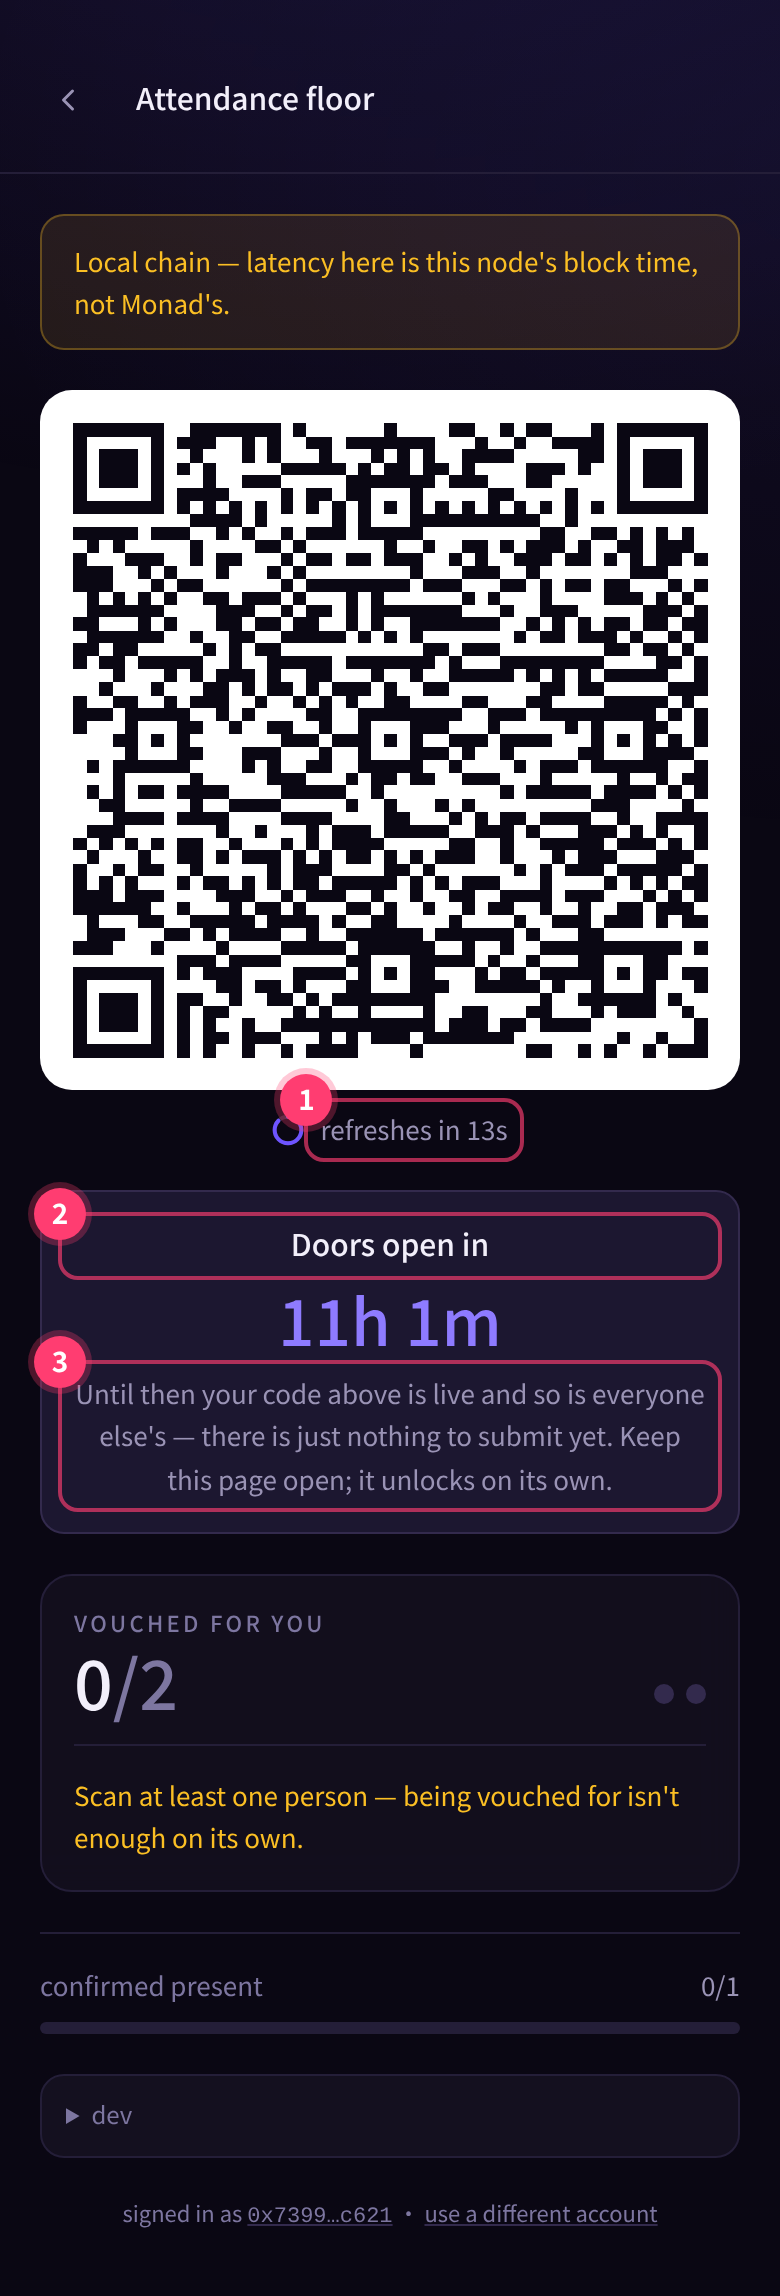
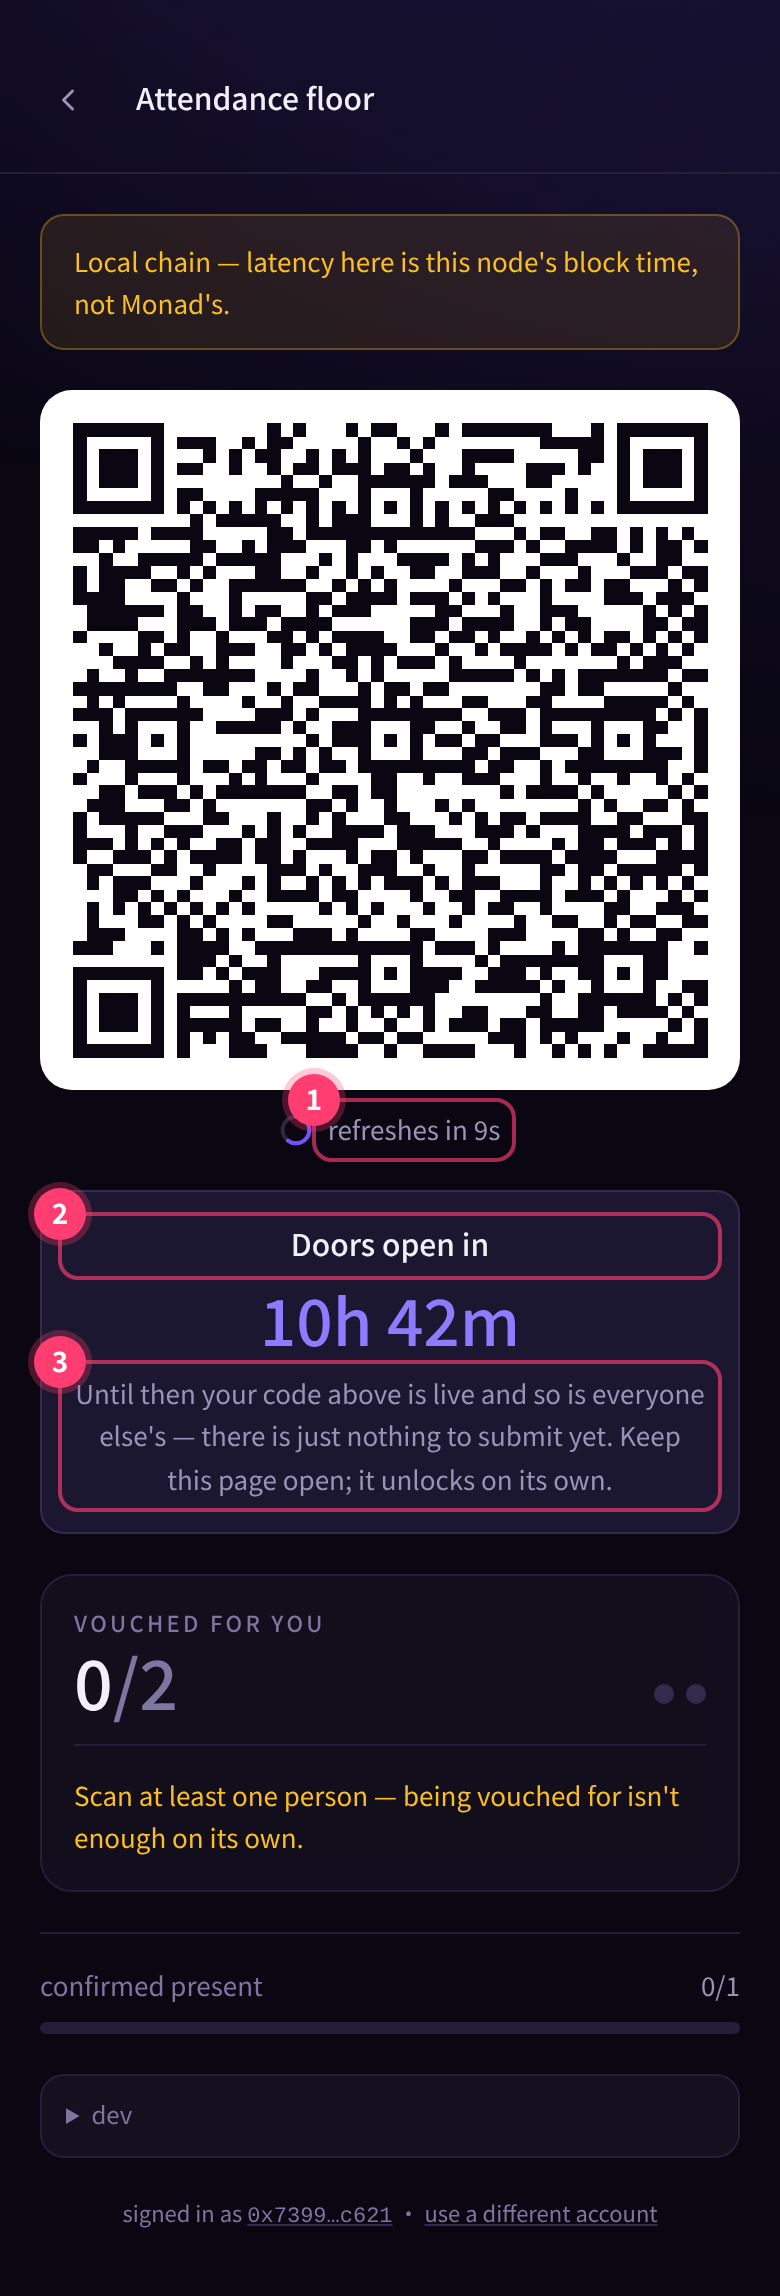
Take the faucet out of the product
Demoting it was not enough. It was the headline, then it was two small
buttons at the bottom, and the screen still read as a page for claiming
test tokens — which is a thing we do and nobody else ever will. Somebody
who signed in with an email to join a meetup does not want test MON; they
want to put money in.

So the screen is now what it says it is: receive at this address, with the
card purchase reserved and inert beside it. The faucet moves behind
?dev=1, with the rest of the scaffolding that exists for us.

That has a cost, and it is paid elsewhere rather than waved away: this
build runs on a testnet, so somebody opening the link to try it has no
other way to get MON. The README now says where to get it, and that two
accounts are needed to see the mechanism work at all — instructions to
testers, in the place testers read.

Changed region(s): [[0.0923, 0.1855, 0.9231, 0.5257], [0.3385, 0.5566, 0.6769, 0.5875], [0.8923, 0.3711, 0.9231, 0.402]]

diff --git a/web/components/Funding.tsx b/web/components/Funding.tsx
@@ -3,6 +3,7 @@
 import { useEffect, useState } from "react";
 import QRCode from "qrcode";
 import { CopyableCode, Notice } from "@/components/ui";
+import { useIdentity } from "@/components/IdentityProvider";
 import type { Address } from "viem";
 import { chain, isLocalChain } from "@/lib/chain";
 import { mon } from "@/lib/format";
@@ -15,10 +16,13 @@ import { monadTestnet } from "viem/chains";
 /// button that fails — which reads as a broken product rather than an empty wallet.
 ///
 /// The screen is arranged around the one method that works on every network today: send MON to
-/// this address. It used to lead with a faucet link, which is a thing only we do — nobody attending
-/// a reading group is going to claim test tokens, and putting that first described our test setup
-/// rather than their situation. The faucet is still here on testnet, at the bottom, labelled as
-/// what it is.
+/// this address.
+///
+/// It used to lead with a faucet link, which is a thing only we do — nobody attending a reading
+/// group is going to claim test tokens, so that described our test setup rather than their
+/// situation. Demoting it to a small row at the bottom was not enough either: it still read as a
+/// faucet page. It is now behind `?dev=1` with the rest of the scaffolding, and the instruction for
+/// people trying this on a testnet lives in the README, where instructions to testers belong.
 ///
 /// Buying with a card is the entry that is deliberately inert. MoonPay has built native MON on
 /// chain 143 and has it suspended; Stripe's destination list does not include Monad at all. A
@@ -77,6 +81,8 @@ export default function Funding({
   /// address nobody can fund, and on a phone a QR is the only way to get it into another wallet.
   address: Address;
 }) {
+  const { devMode } = useIdentity();
+
   if (have >= need) return null;
 
   const faucets = FAUCETS[chain.id] ?? [];
@@ -127,11 +133,17 @@ export default function Funding({
         <p className="text-[11px] text-warn/70">
           Local chain — fund this address with <code>cast send</code>.
         </p>
-      ) : faucets.length > 0 ? (
-        <div className="space-y-1.5">
-          <p className="text-[11px] text-faint">
-            Testing on {chain.name}? These hand out test MON, which is worth nothing anywhere.
-          </p>
+      ) : devMode && faucets.length > 0 ? (
+        // Behind ?dev=1, like every other affordance that exists for us rather than for the person
+        // using this. Claiming test tokens is not something somebody attending a reading group will
+        // ever do, and leaving it on the screen — even small, even at the bottom — kept this reading
+        // as a faucet page after the rest of it had been rewritten around receiving money.
+        //
+        // The cost is real: this build runs on a testnet, so somebody opening the link to try the
+        // product has no other way to obtain MON. That is answered in the README and the submission
+        // notes, which is where an instruction to testers belongs.
+        <div className="space-y-1.5 border-t border-line pt-2.5">
+          <p className="text-[11px] text-faint">Dev · testnet faucets</p>
           <div className="flex flex-wrap gap-2">
             {faucets.map((f) => (
               <a

diff --git a/docs/产品说明_给设计师.md b/docs/产品说明_给设计师.md
@@ -367,9 +367,11 @@
 
 1. **转账进来**——唯一在所有网络上都成立的办法，所以给它最大的版面
 2. **银行卡购买**——**刻意做成不可点的**，这是用户要的「预留充值入口」
-3. 水龙头——降到最下面一行小字，**只在测试网出现，设计时可以完全忽略**
+3. 水龙头——**已经从产品里拿掉了**，只在网址带 `?dev=1` 时出现。设计时当它不存在
 
 **③ 的二维码不是装饰。** 手机上登录的人，没法把自己 42 位的地址粘进另一台设备的钱包里；扫码是现实中唯一走得通的路。编码的是 `ethereum:0x…@链号`，钱包 App 扫到会直接进「转账给」界面。
+
+**关于水龙头，改过两次。** 第一版它是这一屏的主角；第二版降成底部两个小按钮；**现在整个移出产品**。降级不够——只要它还在屏幕上，这一屏读起来就还是「领测试币的页面」。测试网上怎么拿币，写在 README 里给测试者看，不放进产品。
 
 **④ 为什么是死的**：Monad 的银行卡通道还没开——MoonPay 已建好原生 MON 但处于暂停状态，Stripe 的目标链列表里没有 Monad。**放一个点开什么都买不到的按钮，比明说更糟。** 等哪家上了 MON，这个框变成可点的链接，**这一屏其他部分一个字都不用改**。
 

diff --git a/README.md b/README.md
@@ -8,6 +8,17 @@ Built for [Monad Metropolis](https://www.monad.xyz/developers/hackathons/metropo
 
 **Live:** [zhxinyue29.github.io/peerproof](https://zhxinyue29.github.io/peerproof/) · **Contract:** [`0xf0c53014079acc58912621caa434b01029355a6f`](https://testnet.monadscan.com/address/0xf0c53014079acc58912621caa434b01029355a6f) on Monad testnet (10143), source verified
 
+### Trying it
+
+Sign in with an email — no wallet, no extension, nothing to install. You will need a little testnet
+MON to put down a deposit; the app does not offer to fetch it for you, because claiming test tokens
+is not part of the product. Get some from the [Monad faucet](https://faucet.monad.xyz) or the
+`#faucet` channel in [Monad's Discord](https://discord.gg/monad), send it to the address the app
+shows you, and register.
+
+Two accounts are needed to see the mechanism work: the contract refuses self-attestation, so one
+person scanning their own code proves nothing. Two phones, or a phone and a browser wallet.
+
 ---
 
 ## The problem
